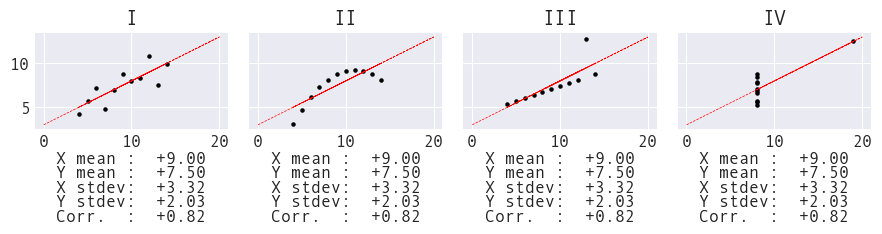
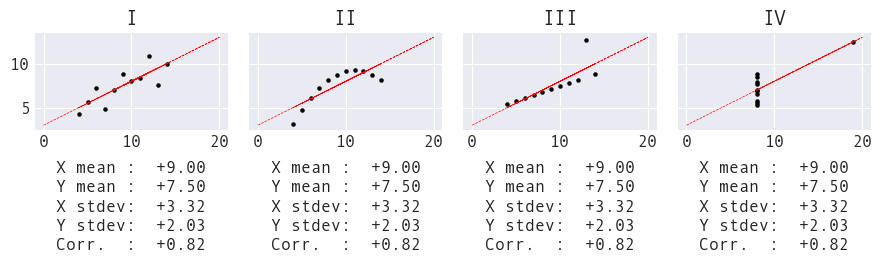
Switch to static visuals for intro

diff --git a/index.html b/index.html
@@ -298,7 +298,7 @@
             summary statistics:
           </p>
           <div class="center">
-            <img src="media/stats.gif" alt="summary statistics are the same" />
+            <img src="media/stats.png" alt="summary statistics are the same" />
           </div>
           <hr align="left" style="width: 33%; margin-bottom: 5px" />
           <div class="footnotes">
@@ -320,7 +320,7 @@
             distribution (and distinguish between these datasets):
           </p>
           <div class="center">
-            <img src="media/moments.gif" alt="moments" />
+            <img src="media/moments.png" alt="moments" />
           </div>
           <hr align="left" style="width: 33%; margin-bottom: 5px" />
           <div class="footnotes">

diff --git a/generate_slide_media.py b/generate_slide_media.py
@@ -64,6 +64,7 @@ def generate_stats_static(datasets):
             f'X mean : {stats.loc["mean", "x"]:>+6}',
             transform=ax.transAxes,
             ha="center",
+            va="center",
         )
         ax.text(
             0.5,
@@ -71,6 +72,7 @@ def generate_stats_static(datasets):
             f'Y mean : {stats.loc["mean", "y"]:>+6}',
             transform=ax.transAxes,
             ha="center",
+            va="center",
         )
         ax.text(
             0.5,
@@ -78,6 +80,7 @@ def generate_stats_static(datasets):
             f'X stdev: {stats.loc["std", "x"]:>+6}',
             transform=ax.transAxes,
             ha="center",
+            va="center",
         )
         ax.text(
             0.5,
@@ -85,6 +88,7 @@ def generate_stats_static(datasets):
             f'Y stdev: {stats.loc["std", "y"]:>+6}',
             transform=ax.transAxes,
             ha="center",
+            va="center",
         )
         ax.text(
             0.5,
@@ -92,101 +96,53 @@ def generate_stats_static(datasets):
             f'Corr.  : {np.trunc(dataset.df.corr().loc["x", "y"] * 100) / 100:>+6.2f}',
             transform=ax.transAxes,
             ha="center",
+            va="center",
         )
     fig.tight_layout(rect=(0, -0.14, 1, 1))
     fig.savefig(MEDIA_DIR / "stats.png", facecolor="white", bbox_inches="tight")
     plt.close(fig)
 
 
-def generate_stats_animation(datasets):
-    """Generate the summary statistics animation."""
-
-    def draw(frame):
-        for ax, dataset, stat in zip(axs, datasets, stats):
-            match frame:
-                case 0:
-                    dataset.plot(ax=ax, show_bounds=False, title=None)
-                case 1:
-                    stat[frame - 1].set_text(
-                        f"X mean : {truncate(dataset.df.x.mean()):>+6}",
-                    )
-                case 2:
-                    stat[frame - 1].set_text(
-                        f"Y mean : {truncate(dataset.df.y.mean()):>+6}",
-                    )
-                case 3:
-                    stat[frame - 1].set_text(
-                        f"X stdev: {truncate(dataset.df.x.std()):>+6}",
-                    )
-                case 4:
-                    stat[frame - 1].set_text(
-                        f"Y stdev: {truncate(dataset.df.y.std()):>+6}",
-                    )
-                case 5:
-                    stat[frame - 1].set_text(
-                        f'Corr.  : {truncate(dataset.df.corr().loc["x", "y"]):>+6.2f}',
-                    )
-
+def generate_moments_static(datasets):
+    """Generate datasets with the moments."""
     fig, axs = plt.subplots(1, 3, figsize=(9, 4))
-    stats = [
-        [
-            ax.text(0.5, y, " ", transform=ax.transAxes, ha="center")
-            for y in np.linspace(-0.2, -0.6, num=5)
-        ]
-        for ax in axs
-    ]
-    fig.tight_layout(rect=(0, -0.14, 1, 1))
-    ani = FuncAnimation(
-        fig,
-        draw,
-        frames=range(1, 6),
-        init_func=lambda: draw(0),
-    )
-    ani.save(MEDIA_DIR / "stats.gif", writer="pillow", fps=0.5)
-    plt.close(fig)
+    for ax, dataset in zip(axs, datasets):
+        dataset.plot(ax=ax, show_bounds=False, title=None)
+        ax.text(
+            0.5,
+            -0.2,
+            f"2nd moment in X: {np.trunc(moment(dataset.df.x, moment=2)):>+6,.0f}",
+            transform=ax.transAxes,
+            ha="center",
+            va="center",
+        )
+        ax.text(
+            0.5,
+            -0.3,
+            f"2nd moment in Y: {np.trunc(moment(dataset.df.y, moment=2)):>+6,.0f}",
+            transform=ax.transAxes,
+            ha="center",
+            va="center",
+        )
+        ax.text(
+            0.5,
+            -0.4,
+            f"3rd moment in X: {np.trunc(moment(dataset.df.x, moment=3)):>+6,.0f}",
+            transform=ax.transAxes,
+            ha="center",
+            va="center",
+        )
+        ax.text(
+            0.5,
+            -0.5,
+            f"3rd moment in Y: {np.trunc(moment(dataset.df.y, moment=3)):>+6,.0f}",
+            transform=ax.transAxes,
+            ha="center",
+            va="center",
+        )
 
-
-def generate_moments_animation(datasets):
-    """Generate animation of the moments."""
-
-    def draw(frame):
-        for ax, dataset, stat in zip(axs, datasets, stats):
-            match frame:
-                case 0:
-                    dataset.plot(ax=ax, show_bounds=False, title=None)
-                case 1:
-                    stat[frame - 1].set_text(
-                        f"2nd moment in X: {np.trunc(moment(dataset.df.x, moment=2)):>+6.0f}",
-                    )
-                case 2:
-                    stat[frame - 1].set_text(
-                        f"2nd moment in Y: {np.trunc(moment(dataset.df.y, moment=2)):>+6.0f}",
-                    )
-                case 3:
-                    stat[frame - 1].set_text(
-                        f"3rd moment in X: {np.trunc(moment(dataset.df.x, moment=3)):>+6.0f}",
-                    )
-                case 4:
-                    stat[frame - 1].set_text(
-                        f"3rd moment in Y: {np.trunc(moment(dataset.df.y, moment=3)):>+6.0f}",
-                    )
-
-    fig, axs = plt.subplots(1, 3, figsize=(9, 4))
-    stats = [
-        [
-            ax.text(0.5, y, " ", transform=ax.transAxes, ha="center")
-            for y in np.linspace(-0.25, -0.55, num=4)
-        ]
-        for ax in axs
-    ]
     fig.tight_layout(rect=(0, -0.1, 1, 1))
-    ani = FuncAnimation(
-        fig,
-        draw,
-        frames=range(1, 5),
-        init_func=lambda: draw(0),
-    )
-    ani.save(MEDIA_DIR / "moments.gif", writer="pillow", fps=0.5)
+    fig.savefig(MEDIA_DIR / "moments.png", facecolor="white", bbox_inches="tight")
     plt.close(fig)
 
 
@@ -211,31 +167,35 @@ def generate_marginals_plot(datasets):
             marginal_ax.yaxis.set_visible(False)
         ax.text(
             0.66,
-            -0.3,
+            -0.25,
             f"X skewness: {moment(dataset.df.x, moment=3):>+9,.2f}",
             transform=ax.transAxes,
             ha="center",
+            va="center",
         )
         ax.text(
             0.66,
-            -0.4,
+            -0.36,
             f"Y skewness: {moment(dataset.df.y, moment=3):>+9,.2f}",
             transform=ax.transAxes,
             ha="center",
+            va="center",
         )
         ax.text(
             0.66,
-            -0.5,
+            -0.47,
             f"X kurtosis: {moment(dataset.df.x, moment=4):.4g}",
             transform=ax.transAxes,
             ha="center",
+            va="center",
         )
         ax.text(
             0.66,
-            -0.6,
+            -0.58,
             f"Y kurtosis: {moment(dataset.df.y, moment=4):.4g}",
             transform=ax.transAxes,
             ha="center",
+            va="center",
         )
     fig.tight_layout(rect=(0, -0.2, 1, 1))
     fig.savefig(
@@ -272,34 +232,43 @@ def anscombes_quartet():
         # annotate the summary statistics
         ax.text(
             0.5,
-            -0.35,
+            -0.4,
             f"X mean : {x.mean():>+6.2f}",
             transform=ax.transAxes,
             ha="center",
+            va="center",
         )
         ax.text(
             0.5,
-            -0.5,
+            -0.6,
             f"Y mean : {y.mean():>+6.2f}",
             transform=ax.transAxes,
             ha="center",
+            va="center",
         )
         ax.text(
             0.5,
-            -0.65,
+            -0.8,
             f"X stdev: {x.std():>+6.2f}",
             transform=ax.transAxes,
             ha="center",
-        )
-        ax.text(
-            0.5, -0.8, f"Y stdev: {y.std():>+6.2f}", transform=ax.transAxes, ha="center"
+            va="center",
         )
         ax.text(
             0.5,
-            -0.95,
+            -1,
+            f"Y stdev: {y.std():>+6.2f}",
+            transform=ax.transAxes,
+            ha="center",
+            va="center",
+        )
+        ax.text(
+            0.5,
+            -1.2,
             f"Corr.  : {np.corrcoef(x, y)[0, 1]:>+6.2f}",
             transform=ax.transAxes,
             ha="center",
+            va="center",
         )
 
     # give the plots a title
@@ -479,8 +448,7 @@ def main():
     with style_context():
         generate_example_datasets_plot(datasets)
         generate_stats_static(datasets)
-        generate_stats_animation(datasets)
-        generate_moments_animation(datasets)
+        generate_moments_static(datasets)
         generate_marginals_plot(datasets)
 
         generate_bounds_example(datasets[0])
